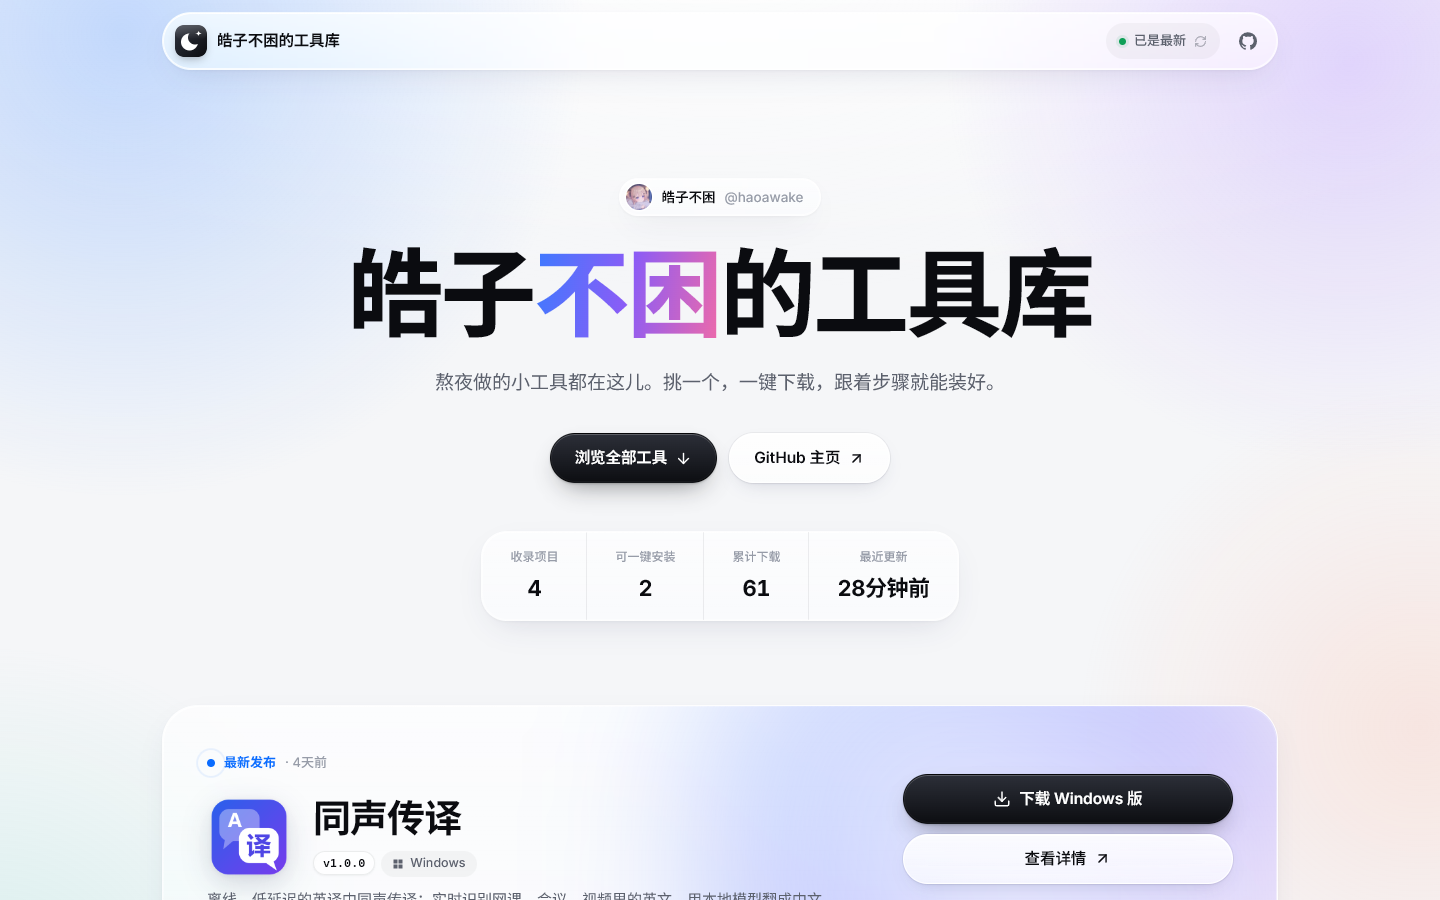
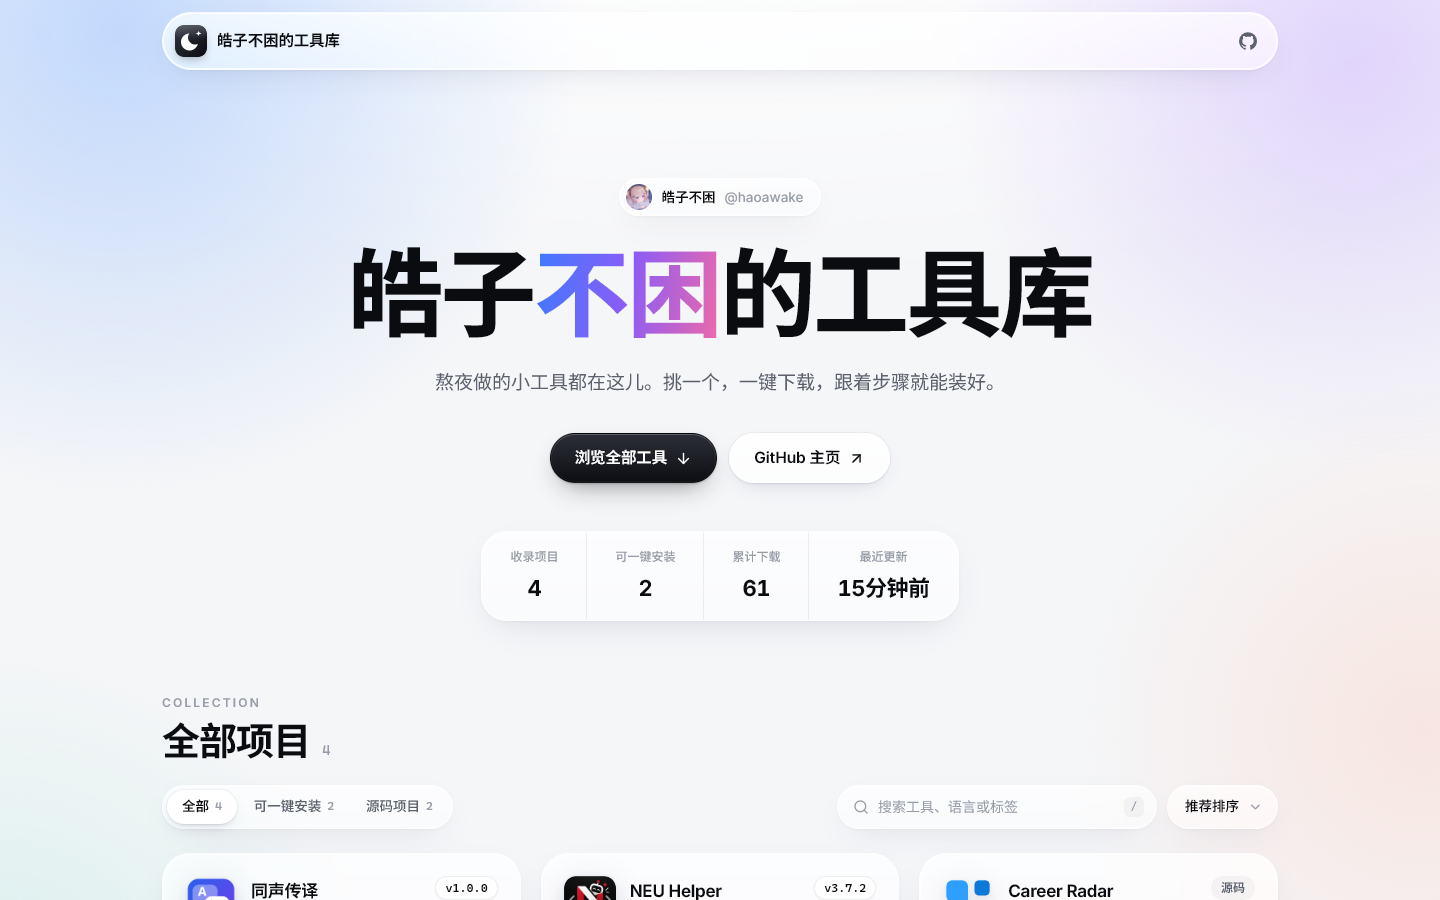
首页去掉「最新发布」大卡片，直接列出全部项目
- 删除最新发布卡片及其样式，标题和统计下面直接是项目列表
- 去掉不再使用的 featured 配置项
- 更新 README 截图

Changed region(s): [[0.0938, 0.7778, 0.9062, 1.0], [0.7812, 0.0311, 0.8438, 0.0622]]

diff --git a/src/components/Hero.tsx b/src/components/Hero.tsx
@@ -1,92 +1,12 @@
 import type { CSSProperties } from 'react';
-import { ArrowDown, ArrowUpRight, Download } from 'lucide-react';
+import { ArrowDown, ArrowUpRight } from 'lucide-react';
 import { config } from '../config';
-import { formatBytes, formatCount, looseText, releaseTitle, timeAgo } from '../lib/format';
-import { OS_LABEL } from '../lib/platform';
-import { quickDownload, type ViewProject } from '../lib/projects';
-import { projectHref } from '../lib/router';
-import { usePlatform } from '../lib/usePlatform';
+import { formatCount, timeAgo } from '../lib/format';
+import type { ViewProject } from '../lib/projects';
 import { useNow } from '../lib/useNow';
 import type { Owner } from '../types';
-import { DownloadLink } from './bits';
-import { OSIcon } from './icons';
-import { ProjectIcon } from './ProjectIcon';
-import { useDownloadNotice } from './useDownloadNotice';
 
 const delay = (i: number) => ({ '--i': i }) as CSSProperties;
-
-function pickSpotlight(projects: ViewProject[]): { project: ViewProject; label: string } | null {
-  const featured = config.featured && projects.find((p) => p.key === config.featured);
-  if (featured) return { project: featured, label: '站长推荐' };
-  const latest = projects
-    .filter((p) => p.installable && p.latest)
-    .sort((a, b) => Date.parse(b.latest!.publishedAt) - Date.parse(a.latest!.publishedAt))[0];
-  return latest ? { project: latest, label: '最新发布' } : null;
-}
-
-/** 像应用商店「Today」那样的大卡片，背后用应用图标本身晕出一团颜色 */
-function Featured({ project: p, label }: { project: ViewProject; label: string }) {
-  const platform = usePlatform();
-  const now = useNow(60_000);
-  const notify = useDownloadNotice();
-  const quick = quickDownload(p, platform);
-  const latest = p.latest!;
-  // 发布标题只是项目名的话（「同声传译 Live Interpreter」），就不重复显示了
-  const raw = releaseTitle(latest.name, latest.tag);
-  const title = [p.displayName, p.name].some((n) => looseText(raw).includes(looseText(n))) ? '' : raw;
-
-  return (
-    <article className="featured glass reveal" style={delay(4)}>
-      {p.iconUrl && <img className="featured-aura" src={p.iconUrl} alt="" aria-hidden="true" />}
-      <div className="featured-main">
-        <div className="featured-label">
-          <span className="live-dot" aria-hidden="true" />
-          {label}
-          <span className="featured-time">· {timeAgo(latest.publishedAt, now)}</span>
-        </div>
-        <a className="featured-app" href={projectHref(p.key)}>
-          <ProjectIcon project={p} size={84} />
-          <div className="featured-heading">
-            <h2 className="featured-name">{p.displayName}</h2>
-            <div className="featured-sub">
-              <span className="badge ver mono">{latest.tag}</span>
-              {p.groups.order.map((os) => (
-                <span key={os} className="plat">
-                  <OSIcon os={os} size={12} />
-                  {OS_LABEL[os]}
-                </span>
-              ))}
-            </div>
-          </div>
-        </a>
-        {title && <p className="featured-release">{title}</p>}
-        {p.summary && <p className="featured-desc">{p.summary}</p>}
-      </div>
-      <div className="featured-cta">
-        {quick ? (
-          <DownloadLink asset={quick.asset} className="btn btn-primary btn-lg" onDownload={(a) => notify(p, a)}>
-            <Download size={18} />
-            下载 {OS_LABEL[quick.os]} 版
-          </DownloadLink>
-        ) : (
-          <a className="btn btn-primary btn-lg" href={projectHref(p.key)}>
-            <Download size={18} />
-            去下载
-          </a>
-        )}
-        <a className="btn btn-lg" href={projectHref(p.key)}>
-          查看详情
-          <ArrowUpRight size={17} />
-        </a>
-        {quick && (
-          <p className="featured-note mono">
-            {quick.asset.name} · {formatBytes(quick.asset.size)}
-          </p>
-        )}
-      </div>
-    </article>
-  );
-}
 
 export function Hero({ owner, projects, loading }: { owner: Owner; projects: ViewProject[]; loading: boolean }) {
   const now = useNow(60_000);
@@ -95,7 +15,6 @@ export function Hero({ owner, projects, loading }: { owner: Owner; projects: Vie
   const installable = projects.filter((p) => p.installable).length;
   const downloads = projects.reduce((s, p) => s + p.downloadsTotal, 0);
   const lastActivity = projects.reduce((m, p) => Math.max(m, p.activityAt), 0);
-  const spot = pickSpotlight(projects);
   const dash = loading ? '—' : null;
 
   const toCatalog = () => document.getElementById('catalog')?.scrollIntoView({ behavior: 'smooth', block: 'start' });
@@ -151,22 +70,6 @@ export function Hero({ owner, projects, loading }: { owner: Owner; projects: Vie
           </div>
         </dl>
       </div>
-
-      {spot ? (
-        <Featured project={spot.project} label={spot.label} />
-      ) : loading ? (
-        <div className="featured glass featured-skeleton" aria-hidden="true">
-          <div>
-            <div className="skeleton" style={{ width: 120, height: 14 }} />
-            <div style={{ display: 'flex', gap: 20, marginTop: 20, alignItems: 'center' }}>
-              <div className="skeleton" style={{ width: 84, height: 84, borderRadius: 22 }} />
-              <div className="skeleton" style={{ width: 200, height: 26 }} />
-            </div>
-            <div className="skeleton" style={{ width: '70%', height: 14, marginTop: 22 }} />
-          </div>
-          <div className="skeleton" style={{ width: 230, height: 50, borderRadius: 999 }} />
-        </div>
-      ) : null}
     </section>
   );
 }

diff --git a/src/styles/home.css b/src/styles/home.css
@@ -1,7 +1,7 @@
 /* ---------------------------------------------------------------- 首屏 */
 
 .hero {
-  padding-block: clamp(48px, 9vw, 108px) clamp(40px, 6vw, 72px);
+  padding-block: clamp(48px, 9vw, 108px) clamp(24px, 3.5vw, 40px);
 }
 
 .hero-head {
@@ -124,151 +124,6 @@
   }
   .hero-actions .btn {
     flex: 1 1 auto;
-  }
-}
-
-/* ---------------------------------------------------------------- 「最新发布」大卡片 */
-
-.featured {
-  display: grid;
-  grid-template-columns: minmax(0, 1fr) auto;
-  align-items: center;
-  gap: 28px 48px;
-  margin-top: clamp(48px, 7vw, 84px);
-  padding: clamp(24px, 3.6vw, 44px);
-  border-radius: 36px;
-  overflow: hidden;
-  isolation: isolate;
-}
-
-/* 用应用图标本身晕出一团颜色，作为卡片的氛围光 */
-.featured-aura {
-  position: absolute;
-  z-index: -1;
-  top: -55%;
-  right: -8%;
-  width: 62%;
-  aspect-ratio: 1;
-  object-fit: cover;
-  border-radius: 50%;
-  filter: blur(80px) saturate(1.6);
-  opacity: 0.32;
-  pointer-events: none;
-}
-
-.featured-label {
-  display: inline-flex;
-  align-items: center;
-  gap: 9px;
-  font-size: 13px;
-  font-weight: 650;
-  color: var(--accent);
-}
-
-.featured-time {
-  font-weight: 500;
-  color: var(--text-3);
-}
-
-.live-dot {
-  position: relative;
-  width: 8px;
-  height: 8px;
-  border-radius: 50%;
-  background: var(--accent);
-}
-
-.live-dot::after {
-  content: '';
-  position: absolute;
-  inset: -4px;
-  border-radius: 50%;
-  border: 1.5px solid var(--accent);
-  animation: ping 1.9s var(--ease) infinite;
-}
-
-.featured-app {
-  display: flex;
-  align-items: center;
-  gap: 22px;
-  margin-top: 20px;
-  border-radius: 20px;
-}
-
-.featured-heading {
-  min-width: 0;
-}
-
-.featured-name {
-  font-size: clamp(28px, 3.2vw, 38px);
-  font-weight: 700;
-  line-height: 1.15;
-  letter-spacing: -0.025em;
-  color: var(--ink);
-  transition: opacity 0.2s;
-}
-
-.featured-app:hover .featured-name {
-  opacity: 0.72;
-}
-
-.featured-sub {
-  display: flex;
-  flex-wrap: wrap;
-  gap: 6px;
-  margin-top: 10px;
-}
-
-.featured-release {
-  margin-top: 22px;
-  font-size: 16px;
-  font-weight: 600;
-  color: var(--ink);
-}
-
-.featured-desc {
-  margin-top: 8px;
-  max-width: 42em;
-  font-size: 15px;
-  line-height: 1.7;
-  color: var(--text-2);
-  display: -webkit-box;
-  -webkit-line-clamp: 2;
-  -webkit-box-orient: vertical;
-  overflow: hidden;
-}
-
-.featured-cta {
-  display: grid;
-  gap: 10px;
-  min-width: 240px;
-}
-
-.featured-note {
-  margin-top: 2px;
-  font-size: 11.5px;
-  text-align: center;
-  color: var(--text-3);
-  overflow: hidden;
-  text-overflow: ellipsis;
-  white-space: nowrap;
-}
-
-.featured-skeleton {
-  min-height: 220px;
-}
-
-@media (max-width: 820px) {
-  .featured {
-    grid-template-columns: minmax(0, 1fr);
-    border-radius: 30px;
-  }
-  .featured-cta {
-    min-width: 0;
-  }
-  .featured-aura {
-    top: -30%;
-    width: 90%;
   }
 }
 

diff --git a/src/styles/base.css b/src/styles/base.css
@@ -157,23 +157,6 @@ pre {
   animation: shimmer 1.5s ease-in-out infinite;
 }
 
-@keyframes pulse-dot {
-  50% {
-    opacity: 0.35;
-  }
-}
-
-@keyframes ping {
-  from {
-    transform: scale(0.5);
-    opacity: 0.8;
-  }
-  to {
-    transform: scale(2);
-    opacity: 0;
-  }
-}
-
 /* 页面切换时交叉淡入，顶栏保持不动 */
 ::view-transition-old(root),
 ::view-transition-new(root) {

diff --git a/src/types.ts b/src/types.ts
@@ -114,7 +114,6 @@ export interface ToolboxConfig {
   includeForks?: boolean;
   hidden?: string[];
   extraRepos?: string[];
-  featured?: string;
   selfRepo?: string;
   /** 下载加速前缀，例如 https://example.com/ ，留空则不显示 */
   mirror?: string;

diff --git a/README.md b/README.md
@@ -43,7 +43,6 @@
   "site": { "title": "皓子不困的工具库", "highlight": "不困", "tagline": "…" },
   "hidden": ["某个不想展示的仓库"],
   "extraRepos": ["别的组织/某个仓库"],   // 把不在自己名下的仓库也加进来
-  "featured": "neu-helper",            // 可选：首页大卡片固定展示它（不填就展示最新发布的）
   "mirror": "",                        // 可选：下载加速前缀
   "projects": {
     "neu-helper": {
